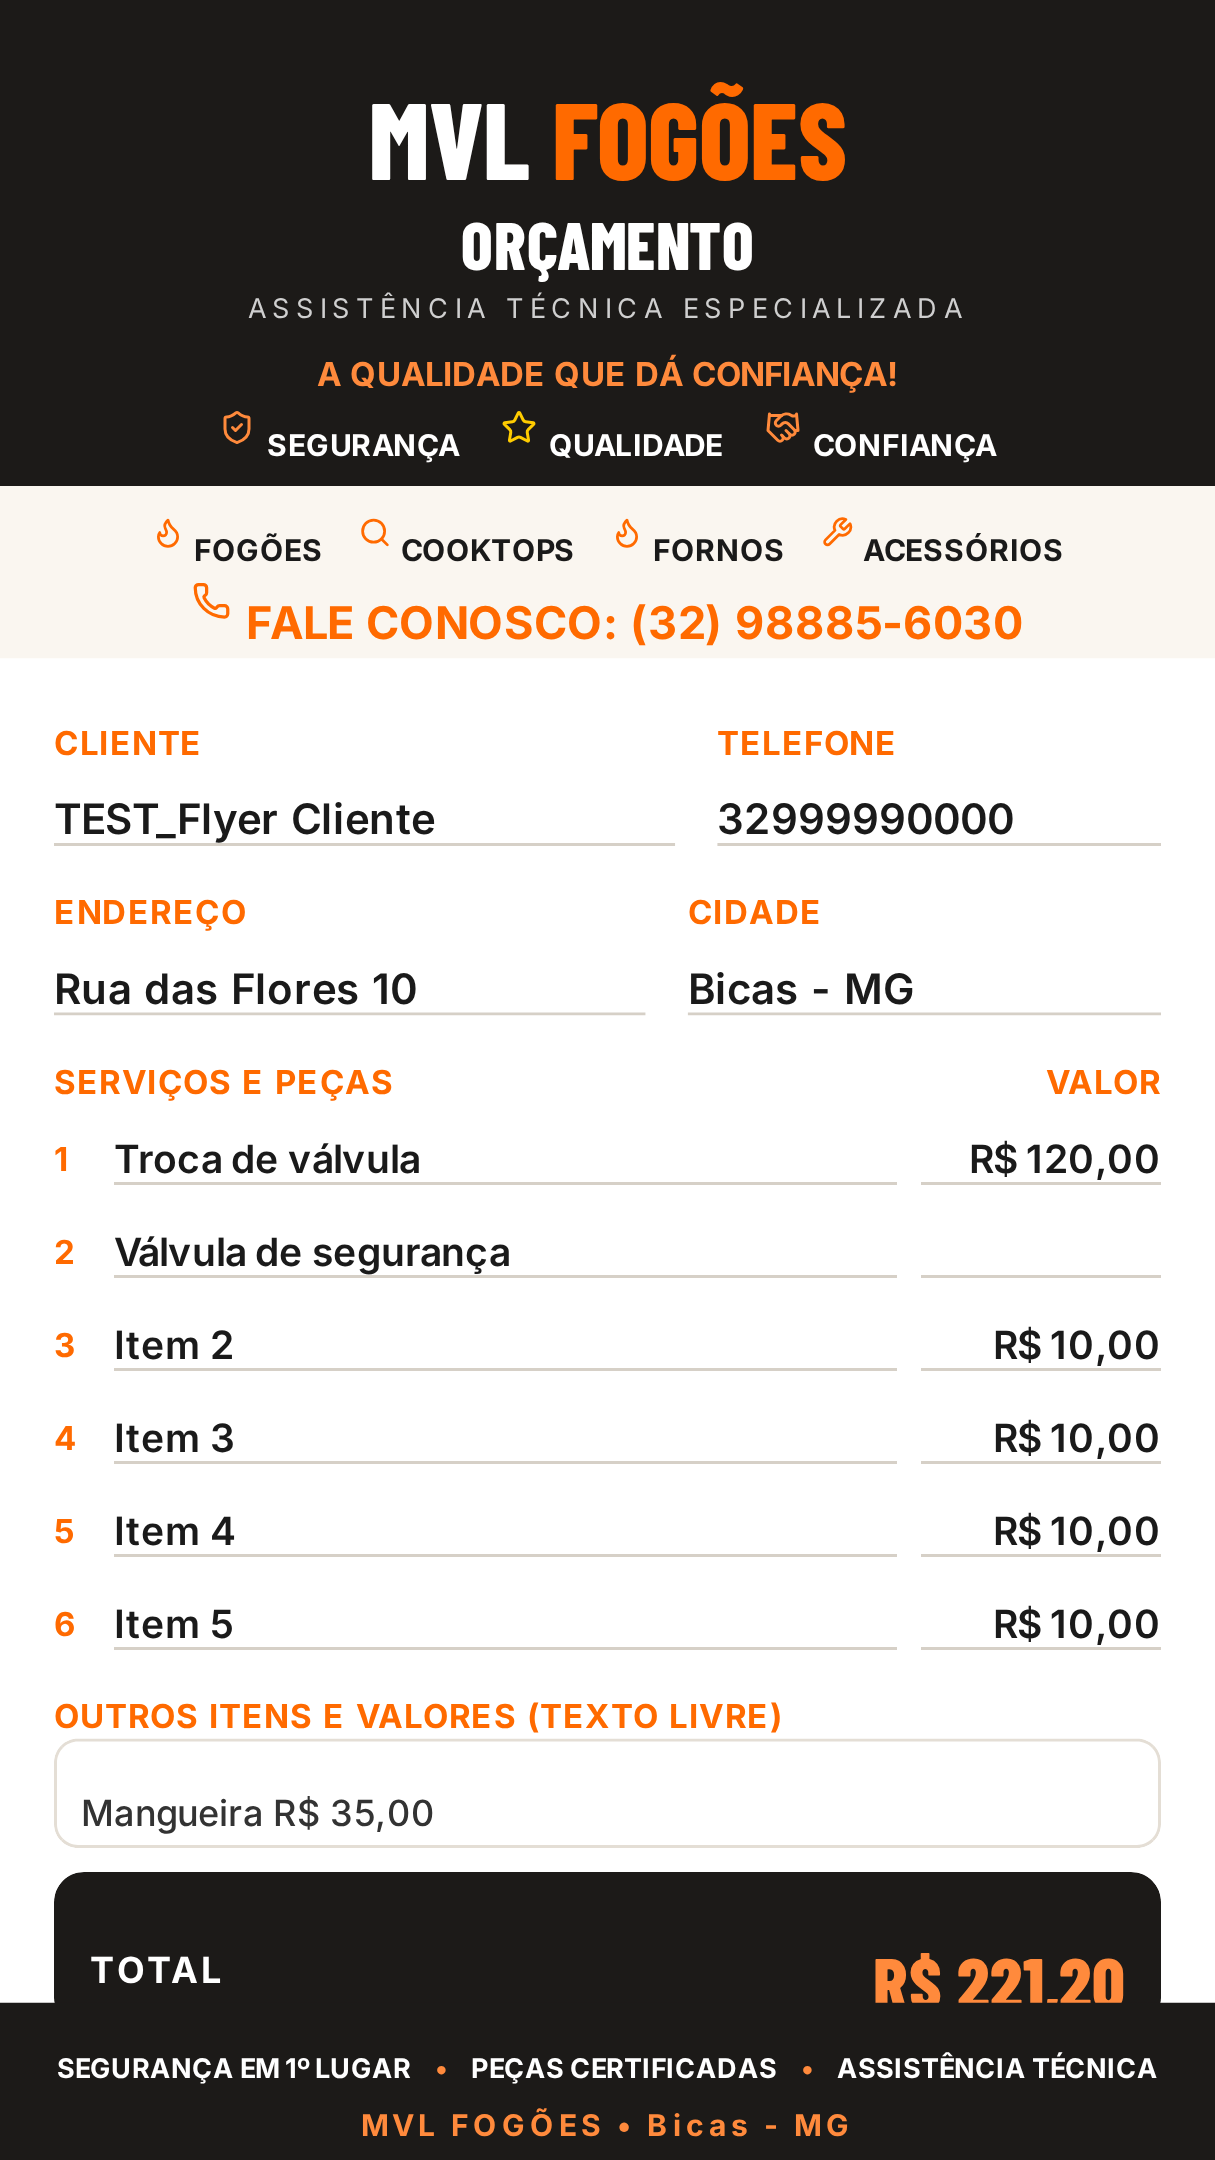
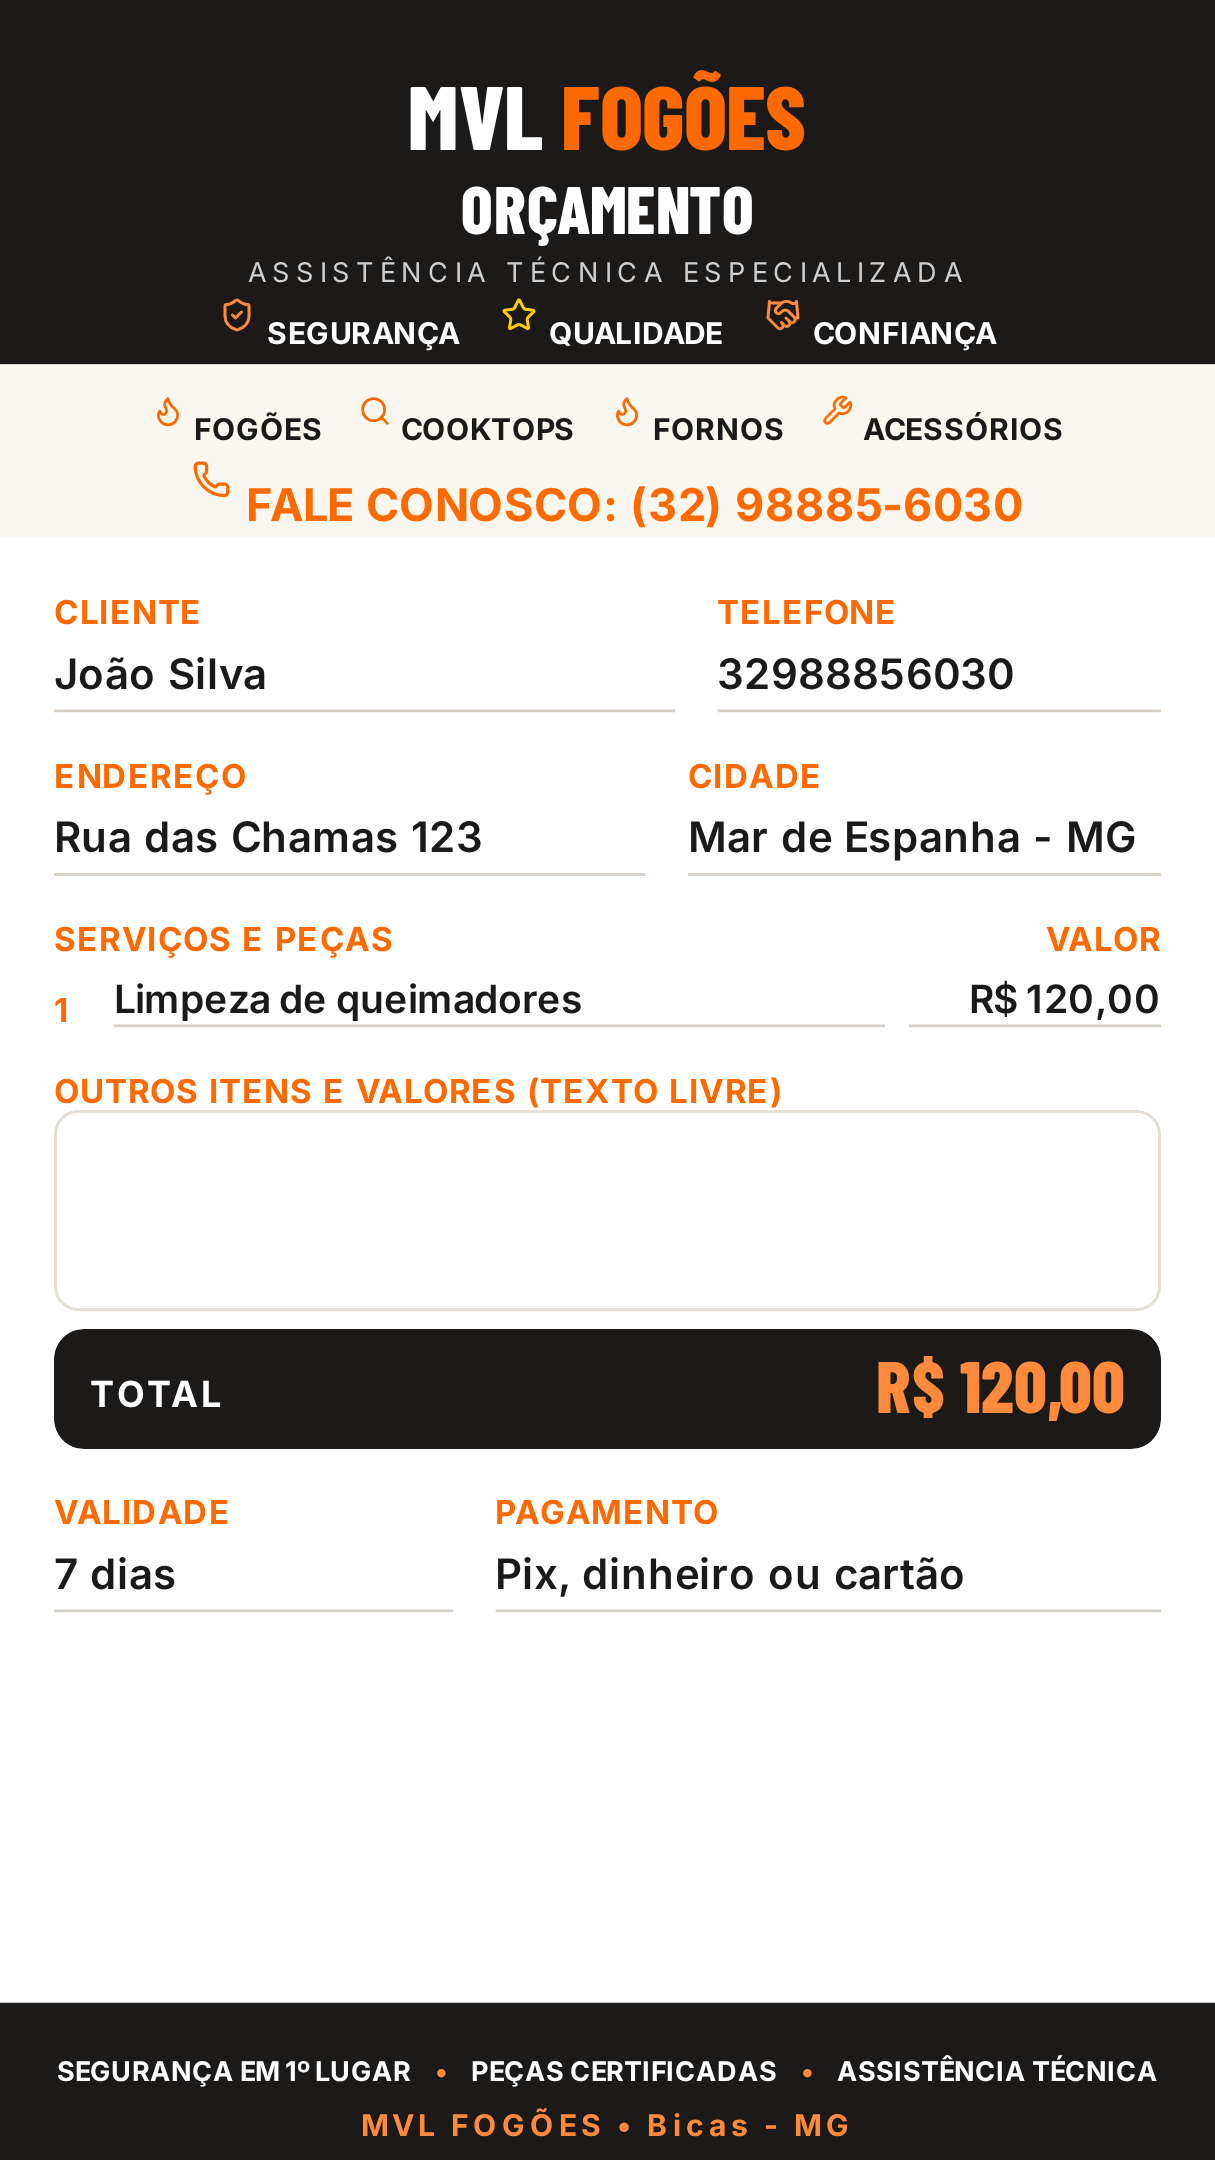
## Flyers de Orçamento e Recibo prontos
Os dois novos flyers seguem o mesmo visual do flyer de agendamento. Eles abrem preenchidos com os dados do cliente e da última OS dele, e você edita tudo na tela antes de enviar. Para abrir, vá na **Central WhatsApp**, toque no cliente e escolha **Orçamento** ou **Recibo**. O botão de prancheta no topo do flyer mostra a área para colar a conversa, igual ao do agendamento.

**Orçamento**
- Linhas de serviço ou peça com valor, até 5. Use o botão **+ Adicionar item** e o **x** para tirar uma linha.
- Uma caixa de texto livre para outros itens, com até 3 linhas. Os valores escritos com **R$** (por exemplo "Mangueira R$ 35,00") também entram na conta.
- O **Total** soma tudo na hora. Também tem os campos Validade (vem com 7 dias) e Pagamento.

**Recibo**
- Mostra o valor recebido e embaixo o **valor por extenso**, que se escreve sozinho (por exemplo "mil duzentos e cinquenta reais").
- A **garantia em dias** vem em branco para você preencher.
- Tem a linha **"Bicas, MG ___ de ________ de 20__."** em branco e a **linha de assinatura do técnico** com o seu nome.

O teste automático passou nos dois flyers e o flyer de agendamento continua funcionando igual. Depois desse teste ajustei mais quatro detalhes e conferi só pelas imagens geradas, sem um novo teste completo:
- O total ficava um pouco abaixo do centro da faixa preta.
- No recibo, a data preenchida ficava fora da linha.
- Linhas longas nas observações eram cortadas.
[…]

diff --git a/frontend/src/components/flyerParts.js b/frontend/src/components/flyerParts.js
@@ -65,7 +65,12 @@ export const Texto = ({ label, k, f, set, cap, testid, placeholder, maxLines = 6
     <div>
       <div style={{ ...lbl, marginBottom: 5 }}>{label}</div>
       {cap ? <div style={box}><span data-txt="1" style={{ position: "relative", display: "block" }}>{f[k]}</span></div>
-        : <textarea data-testid={testid} maxLength={240} value={f[k]} placeholder={placeholder} onChange={(e) => set({ ...f, [k]: e.target.value.split("\n").slice(0, maxLines).join("\n") })} style={box} />}
+        : <textarea data-testid={testid} maxLength={240} value={f[k]} placeholder={placeholder} onChange={(e) => {
+          const el = e.target;
+          const v = el.value.split("\n").slice(0, maxLines).join("\n");
+          if (v.length > (f[k] || "").length && el.scrollHeight > el.clientHeight + 1) return;
+          set({ ...f, [k]: v });
+        }} style={box} />}
     </div>
   );
 };

diff --git a/frontend/src/components/flyerModelos.js b/frontend/src/components/flyerModelos.js
@@ -133,7 +133,7 @@ export const MODELOS = {
     }),
     fix: (n, old) => (n.valor !== old.valor ? { ...n, extenso: extenso(num(n.valor)) } : n),
     texto: (f, cfg) => linhas(["*MVL FOGÕES* 🔥", "*RECIBO*", "",
-      `Recebi de *${f.nome || "—"}* a importância de *${f.valor || "—"}*${f.extenso ? ` (${f.extenso})` : ""}, referente a ${f.servico || "—"}.`, "",
+      `Recebi de *${f.nome || "—"}* a importância de *${f.valor ? fmtBRL(num(f.valor)) : "—"}*${f.extenso ? ` (${f.extenso})` : ""}, referente a ${f.servico || "—"}.`, "",
       f.garantia ? `🛡 *Garantia:* ${f.garantia} dias` : null, f.obs ? `📝 ${f.obs}` : null, "",
       `Bicas, MG ${f.dia || "____"} de ${f.mes || "__________"} de 20${f.ano || "__"}.`, `✍ ${cfg.tecnico || "MVL Fogões"}`, ...fim(cfg)]),
     Body: (p) => (

diff --git a/frontend/src/components/FlyerModal.js b/frontend/src/components/FlyerModal.js
@@ -52,7 +52,7 @@ export default function FlyerModal({ open, onClose, ag, cli, cfg, colar = false,
         onclone: (doc) => {
           doc.querySelector('[data-testid="flyer-canvas"]').parentElement.style.transform = "none";
           const st = doc.createElement("style");
-          st.textContent = "[data-ico]{position:relative;top:2px}[data-lbl]{position:relative;top:-1px}[data-testid=flyer-total] span{position:relative;top:-5px}[data-txt]{top:-4px}";
+          st.textContent = "[data-ico]{position:relative;top:2px}[data-lbl]{position:relative;top:-1px}[data-testid=flyer-total] span{position:relative;top:-5px}[data-testid=flyer-total] span+span{top:-12px}[data-txt]{top:-4px}[data-testid=flyer-recibo-data] [data-txt]{top:0}";
           doc.head.appendChild(st);
         },
       });

diff --git a/tests/flyer_orc_iter6.py b/tests/flyer_orc_iter6.py
@@ -1,0 +1,56 @@
+await page.set_viewport_size({"width": 390, "height": 844})
+CID = "46ce9d65-e689-4609-bc99-0d76ea8e3632"
+errs = []
+page.on("pageerror", lambda e: errs.append(str(e)))
+try:
+    await page.wait_for_timeout(2500)
+    await page.click('[data-testid="mnav-whatsapp-button"]')
+    await page.wait_for_selector(f'[data-testid="wa-cli-{CID}"]', timeout=8000)
+    await page.locator(f'[data-testid="wa-cli-{CID}"]').evaluate("e => e.click()")
+    await page.wait_for_selector('[data-testid="wa-sheet-orcamento"]', timeout=5000)
+    await page.locator('[data-testid="wa-sheet-orcamento"]').evaluate("e => e.click()")
+    await page.wait_for_selector('[data-testid="flyer-canvas"]', timeout=5000)
+    print("title:", await page.inner_text('[data-testid="flyer-modal-title"]'))
+    n = await page.locator('[data-testid^="flyer-item-desc-"]').count()
+    print("initial items", n)
+    while await page.locator('[data-testid="flyer-item-add"]').count() > 0:
+        await page.locator('[data-testid="flyer-item-add"]').evaluate("e => e.click()")
+        await page.wait_for_timeout(150)
+    n = await page.locator('[data-testid^="flyer-item-desc-"]').count()
+    print("items after add-until-hidden:", n, "add visible:", await page.locator('[data-testid="flyer-item-add"]').count())
+    vals = ["R$ 120,00", "45", "1.250", "10,5", "R$ 99,90"]
+    for i in range(n):
+        if not await page.input_value(f'[data-testid="flyer-item-desc-{i}"]'):
+            await page.fill(f'[data-testid="flyer-item-desc-{i}"]', f"Item teste numero {i+1} com descricao")
+        await page.fill(f'[data-testid="flyer-item-valor-{i}"]', vals[i])
+    await page.fill('[data-testid="flyer-input-outros"]', "Mangueira de gás R$ 35,00\nRegulador R$ 1.200\nlinha três de texto\nlinha quatro deveria cortar")
+    out = await page.input_value('[data-testid="flyer-input-outros"]')
+    print("outros lines:", len(out.split("\n")), repr(out))
+    print("total:", await page.inner_text('[data-testid="flyer-total"]'))
+    geo = await page.evaluate("""() => {
+      const c=document.querySelector('[data-testid=flyer-canvas]'); const foot=c.lastElementChild.getBoundingClientRect();
+      const r=s=>{const e=document.querySelector(s); const b=e.getBoundingClientRect(); return {top:Math.round(b.top),bottom:Math.round(b.bottom)}};
+      const ta=document.querySelector('[data-testid=flyer-input-outros]');
+      return {footTop:Math.round(foot.top), total:r('[data-testid=flyer-total]'), val:r('[data-testid=flyer-input-validade]'), pag:r('[data-testid=flyer-input-pagamento]'), outrosScroll:ta.scrollHeight, outrosClient:ta.clientHeight}
+    }""")
+    print("geo:", geo)
+    print("pag above footer:", geo['pag']['bottom'] <= geo['footTop'], "val above:", geo['val']['bottom'] <= geo['footTop'])
+    await page.locator('[data-testid="flyer-canvas"]').scroll_into_view_if_needed()
+    await page.screenshot(path=".screenshots/orc_live.jpg", quality=40, full_page=False)
+    async with page.expect_download() as dl:
+        await page.locator('[data-testid="flyer-download-btn"]').evaluate("e => e.click()")
+    d = await dl.value
+    await d.save_as("/tmp/orc.png")
+    print("downloaded", d.suggested_filename)
+    await page.wait_for_timeout(800)
+    await page.evaluate("() => { window.__opened=[]; window.open=(u)=>{window.__opened.push(u); return null}; navigator.canShare = undefined; }")
+    async with page.expect_download() as dl2:
+        await page.locator('[data-testid="flyer-send-btn"]').evaluate("e => e.click()")
+    await dl2.value
+    await page.wait_for_timeout(1500)
+    op = await page.evaluate("() => window.__opened")
+    from urllib.parse import unquote
+    for u in op: print("WA:", unquote(u))
+except Exception as e:
+    print("ERR", e)
+print("pageerrors", errs)

diff --git a/memory/PRD.md b/memory/PRD.md
@@ -14,6 +14,8 @@ FastAPI + MongoDB (motor) / React 19 + Vite + Tailwind v4 / PWA (manifest + sw.j
 - 2026-06: Caixa de serviço do flyer marcada de forma visível (caixa laranja com ✓), tipo pré-marcado pelo agendamento ou deduzido do texto do serviço
 - 2026-06: Etiquetas de cidade (Bicas, Mar de Espanha, Pequeri, Maripá de Minas, Guarará, Rochedo de Minas) em Clientes e WhatsApp, com filtro e busca. Ao tocar no cliente na Central WhatsApp: abrir conversa, enviar flyer ou montar o flyer com dados da conversa (colar texto, preencher automático, selecionar trecho → campo)
 - Limitação: o WhatsApp não permite que apps leiam conversas/etiquetas; os dados vêm copiados e colados
+- 2026-06: Seleção de cidade (botões) no cadastro/edição de cliente
+- 2026-06: Flyers de Orçamento e Recibo (Central WhatsApp → cliente). Orçamento: até 5 itens com valor + texto livre (valores com R$ somam), total automático, validade e pagamento. Recibo: valor + extenso automático, garantia em dias manual, "Bicas, MG __ de ____ de 20__", assinatura do técnico. Arquitetura: flyerParts.js (peças visuais), flyerModelos.js (agenda/orcamento/recibo), FlyerModal.js genérico (prop modelo)
 
 ## Backlog
 - P2: pequeno desalinhamento dos ícones no PNG exportado (html2canvas)
